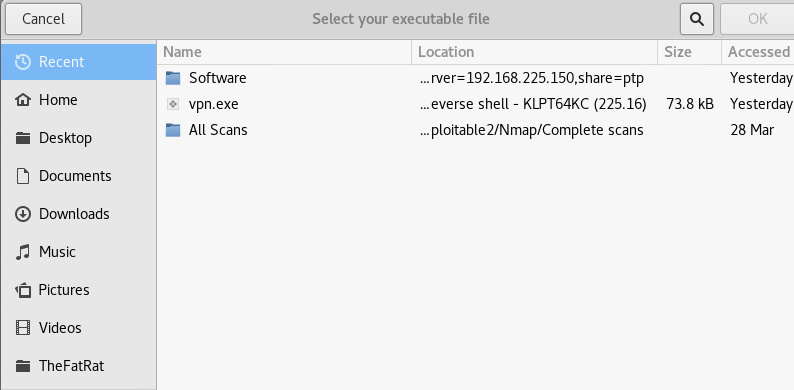
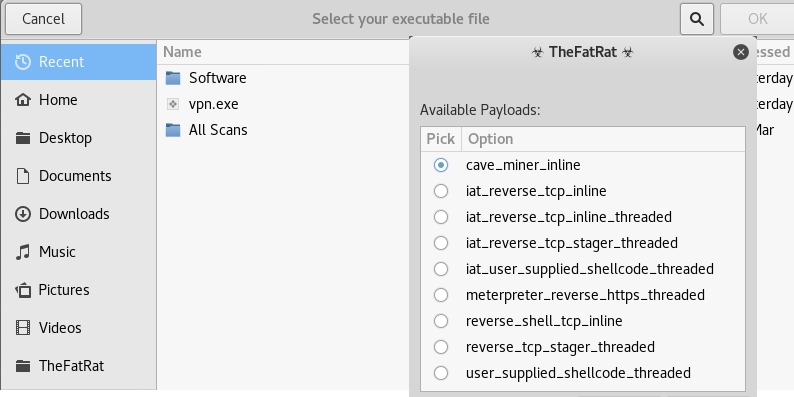
New Site

diff --git a/content/posts/Events/EventsList.md b/content/posts/Events/EventsList.md
@@ -35,14 +35,20 @@ IFSEC International is the biggest security exhibition in Europe which takes pla
 IFSEC International welcomes over 27,000 global security professionals to experience the latest technological innovations and hear from industry leaders - all under one roof, over three days. The event caters to everyone within the security buying chain from manufacturers, distributors, installers, integrators, consultants to end users. 
 With over 600 exhibitors showcasing over 10,000 products, you will be able to find the perfect security solution for your business. 
 
+####  Video
+
+Takes a little time to load ! 
+<video controls width="560" height="315" >
+    <source src="http://video.silverstream.tv/content/video/594a9f48a70d8.mp4" type="video/mp4">
+</video>
+
+
+
 #### Review 
 
 This I will fully recommend , no exspensive tickets and all content is free. This covers all types of security both cyber and physcial as well as other aspects. 
 2 days recommended as there is so much there to check out.
 
-<video controls width="560" height="315" >
-    <source src="http://video.silverstream.tv/content/video/594a9f48a70d8.mp4" type="video/mp4">
-</video>
 
 
 

diff --git a/content/posts/About/About.md b/content/posts/About/About.md
@@ -15,7 +15,7 @@ type = "post"
 My Name is K.C , Cyber Security is key to the world more than most know.
 
 The Aim try educate and help others get into the cyber security world for the right reasons.
-With the growing threat for both consumers and businsses more people need to be aware of the threats surrounding them in their day to day life.
+With the growing threat for both consumers and businesses more people need to be aware of the threats surrounding them in their day to day life.
 
 This site is a collection of my findings, guides or just general info for people to read, learn and hopefully take inspiration. 
 
@@ -33,7 +33,7 @@ I've learnt a lot from what I've found online so thought I'd Give something back
 #### Site notes
 
 This site is still in beta and will be constantly changing.
-I will be adding content reguallry and once theres a reasonable amount up there I will focus on standardising formatting.
+I will be adding content regularly and once there's a reasonable amount posted I will focus on standardized formatting.
 
 Once Things have progressed I will put up a contact email for you to ask for suggestion Posts and improvements.
 

diff --git a/content/posts/Pentesting Tuts/TheFatRat/TFRBackdoorEXE.md b/content/posts/Pentesting Tuts/TheFatRat/TFRBackdoorEXE.md
@@ -1,5 +1,5 @@
 +++
-title = "Backdoor EXE with TheFatRat"
+title = "TheFatRat - Backdoor EXE"
 description = "TheFatRat EXE Backdoor"
 tags = [ "FatRat", "Payload", "Backdoor", "Easy" ]
 date = "2218-06-08"
@@ -8,6 +8,8 @@ categories = ["Backdoor","TheFatRat"]
 slug = "Backdoor-EXE"
 type = "post"
 +++
+So Here is a tool called TheFatRat, can check out [HERE](https://github.com/Screetsec/TheFatRat "TheFatRat GitHub Link"). 
+It's still in development but it's easy to follow and has some easy to use features.
 
 TheFatRat Also have a bunch of backdooring techniques which are worth checking out.
 
@@ -26,5 +28,4 @@ Bellow is how you backdoor and EXE with backdoor-Factory.
 
 ![TFRDEXE1](/img/TheFatRat/BackdoorEXE/BDE1.png)
 ![TFRDEXE2](/img/TheFatRat/BackdoorEXE/BDE2.png)
-![TFRDEXE3](/img/TheFatRat/BackdoorEXE/BDE3.png)
 ![TFRDEXE4](/img/TheFatRat/BackdoorEXE/BDE4.png)

diff --git a/content/posts/RFID-NFC-Research/ImplantSeries.md b/content/posts/RFID-NFC-Research/ImplantSeries.md
@@ -23,8 +23,9 @@ The XSeries are the easier to implant and the chips are incases in an small tube
 More infomation can be found here https://dangerousthings.com/product-category/x-series/
 
 ![DAEXT](https://dangerousthings.com/wp-content/uploads/Piercer-installing-x-series-transponder-2.jpg)
-![DAEXT](https://dangerousthings.com/wp-content/uploads/injector-exploded.jpg)
-![DAEXT](https://dangerousthings.com/wp-content/uploads/outlet_header_image.jpg)
+![DATI](/img/Implants/DATI/IMHD.jpg)
+
+
 
 <iframe width="560" height="315" src="https://www.youtube.com/embed/0LAZAd0uIBQ" frameborder="0" allowfullscreen></iframe>
 

diff --git a/content/posts/Pentesting Tuts/TheFatRat/FTREasyPayloads.md b/content/posts/Pentesting Tuts/TheFatRat/FTREasyPayloads.md
@@ -1,13 +1,10 @@
 +++
-title = "Easy payloads with TheFatRat"
+title = "TheFatRat - Easy payloads"
 description = "TheFatRat Payload generation"
 tags = [ "FatRat", "Payload", "Generation", "Easy" ]
 date = "2218-06-07"
 location = "127.0.0.1"
-categories = [
-  "Payload",
-  "TheFatRat"
-]
+categories = ["Payload","TheFatRat"]
 slug = "Payload-Gen"
 type = "post"
 +++
